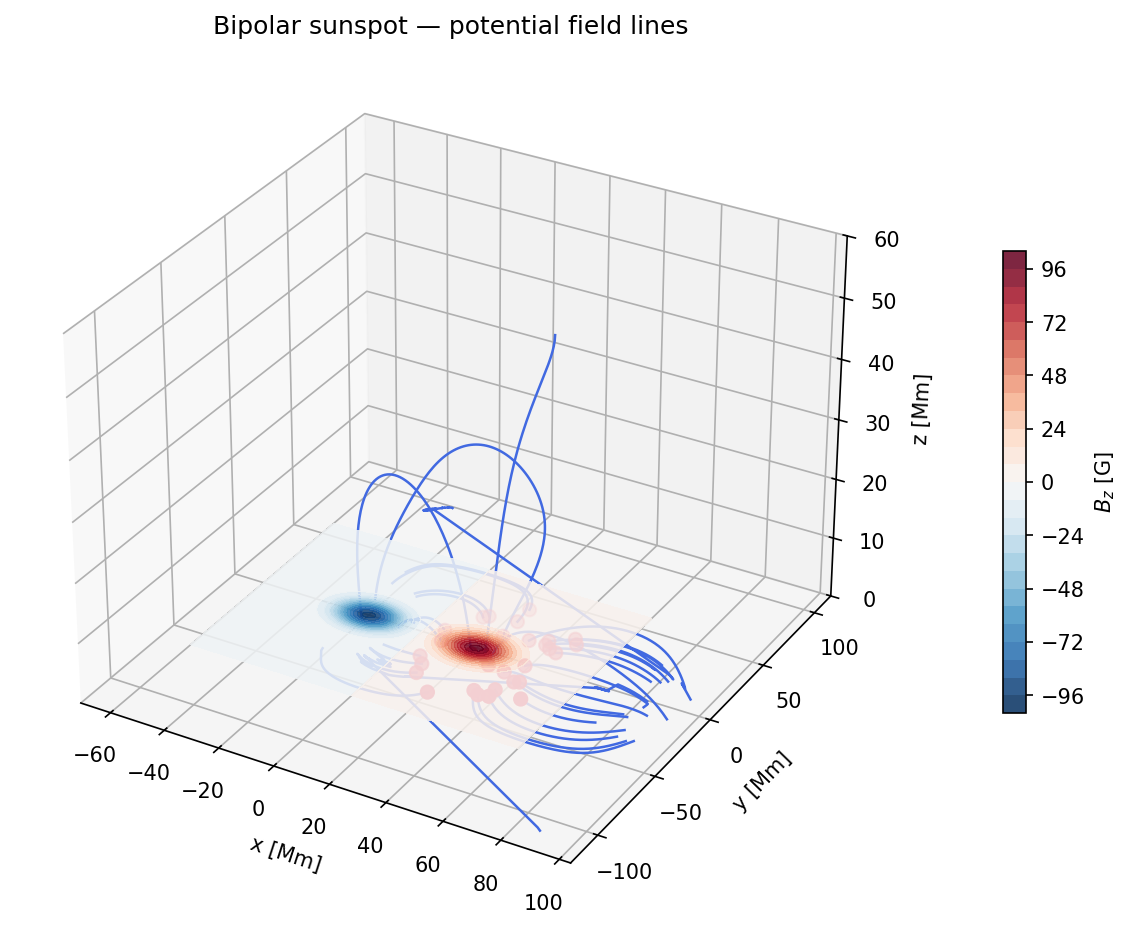
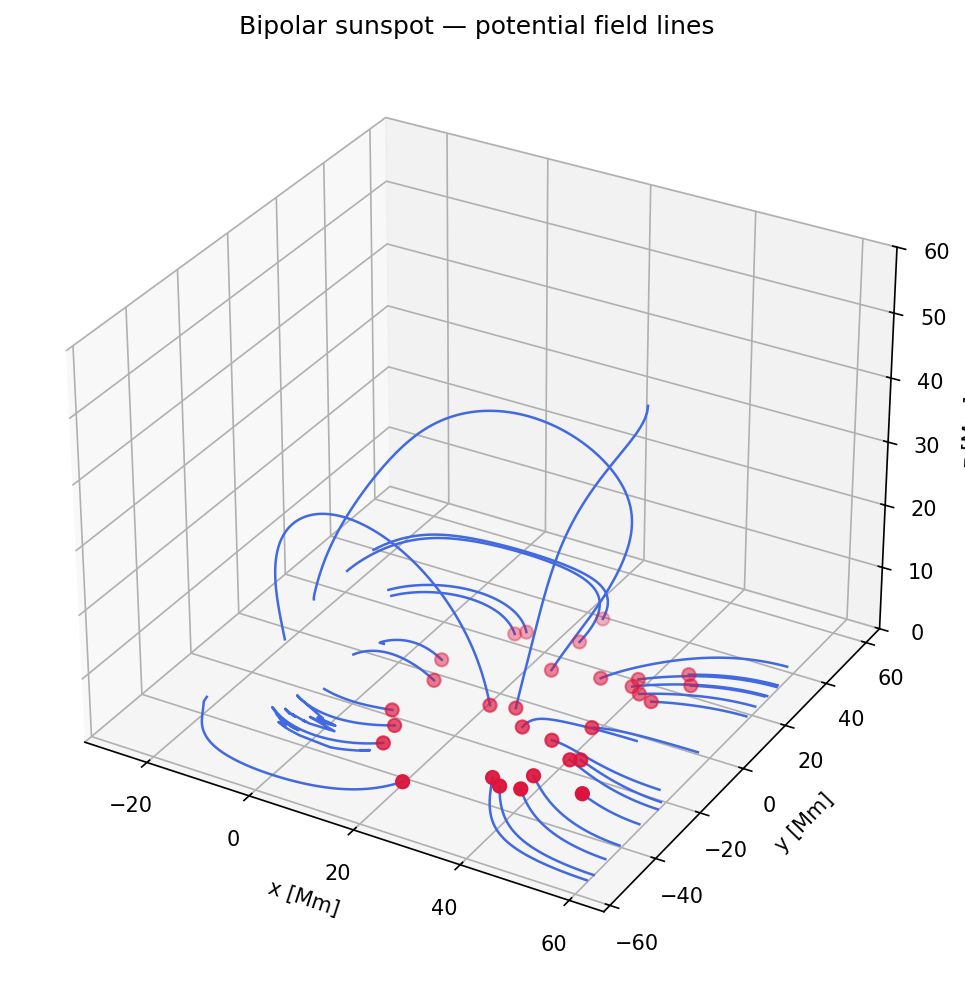
fix: clip field lines to domain and remove surface Bz overlay
- Remove ax.contourf surface field plot (overlay artefacts)
- Add _domain_segment() helper that returns the contiguous in-domain
  index range containing the seed centre, cutting off periodic
  wrap-around artefacts at the horizontal domain boundaries
- Re-generate bipolar_demo.png

diff --git a/src/wind3d_field_lines/demo_bipolar.py b/src/wind3d_field_lines/demo_bipolar.py
@@ -114,6 +114,45 @@ def _to_physical(
     return vmin + (values - 1.0) * step
 
 
+def _domain_segment(
+    xv: NDArray[np.float64],
+    yv: NDArray[np.float64],
+    center: int,
+    x_min: float,
+    x_max: float,
+    y_min: float,
+    y_max: float,
+) -> tuple[int, int]:
+    """Return ``[a, b]``: the contiguous in-domain segment containing *center*.
+
+    Parameters
+    ----------
+    xv, yv:
+        Physical x and y coordinates along the traced line (1-D).
+    center:
+        0-based index of the seed point within *xv* / *yv*.
+    x_min, x_max, y_min, y_max:
+        Domain bounds.
+
+    Returns
+    -------
+    tuple[int, int]
+        Inclusive ``[a, b]`` range, or ``(-1, -1)`` if the centre itself is
+        outside the domain.
+    """
+    in_domain = (xv >= x_min) & (xv <= x_max) & (yv >= y_min) & (yv <= y_max)
+    if not in_domain[center]:
+        return -1, -1
+
+    out_idx = np.where(~in_domain)[0]
+    before = out_idx[out_idx < center]
+    after = out_idx[out_idx > center]
+
+    a = int(before[-1]) + 1 if len(before) else 0
+    b = int(after[0]) - 1 if len(after) else len(xv) - 1
+    return a, b
+
+
 def run_demo(config: BipolarDemoConfig) -> None:
     """Extrapolate the potential field and visualize traced field lines.
 
@@ -199,34 +238,38 @@ def run_demo(config: BipolarDemoConfig) -> None:
     fig = plt.figure(figsize=(10, 8))
     ax = fig.add_subplot(111, projection="3d")
 
-    # Surface field (z = 0 plane)
-    xx, yy = np.meshgrid(x, y, indexing="ij")
-    vmax = float(np.abs(b3_bottom).max())
-    cf = ax.contourf(
-        xx,
-        yy,
-        b3_bottom,
-        levels=30,
-        zdir="z",
-        offset=0.0,
-        cmap="RdBu_r",
-        vmin=-vmax,
-        vmax=vmax,
-        alpha=0.85,
-    )
-    fig.colorbar(cf, ax=ax, shrink=0.5, pad=0.1, label="$B_z$ [G]")
-
-    # Field lines
+    # Field lines — clip each traced line to the horizontal domain so that
+    # periodic wrap-around artefacts are not plotted.
     valid_line_count = 0
     for n in range(result.nx):
         lmin = int(max(1, result.lmin[n]))
         lmax = int(min(result.lx, result.lmax[n]))
         if lmax - lmin + 1 < 2:
             continue
+
+        sl = slice(lmin - 1, lmax)
+        xv = x_line[n, sl]
+        yv = y_line[n, sl]
+        zv = z_line[n, sl]
+
+        # Centre index within this slice
+        center = max(0, min(len(xv) - 1, config.lcen_bln - lmin))
+        a, b = _domain_segment(
+            xv,
+            yv,
+            center,
+            config.x_min,
+            config.x_max,
+            config.y_min,
+            config.y_max,
+        )
+        if b - a + 1 < 2:
+            continue
+
         ax.plot(
-            x_line[n, lmin - 1 : lmax],
-            y_line[n, lmin - 1 : lmax],
-            z_line[n, lmin - 1 : lmax],
+            xv[a : b + 1],
+            yv[a : b + 1],
+            zv[a : b + 1],
             color="royalblue",
             linewidth=1.2,
         )
